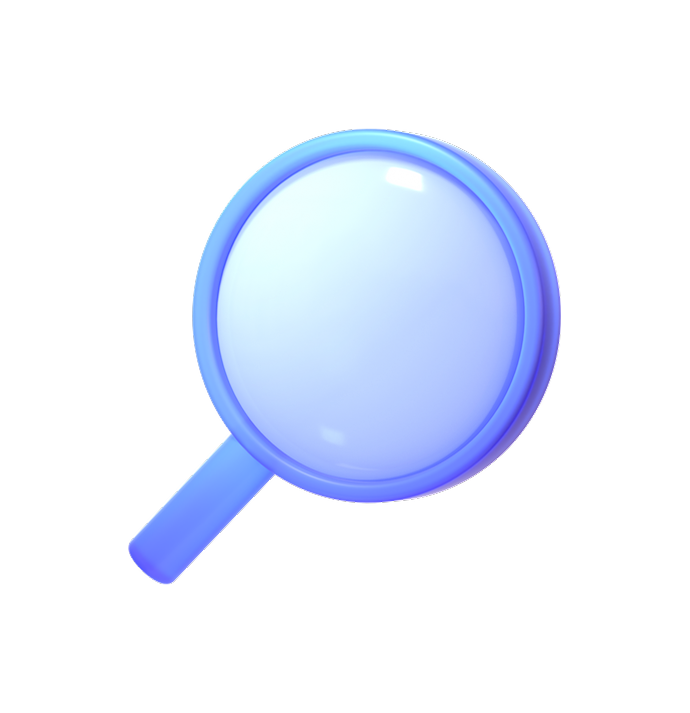
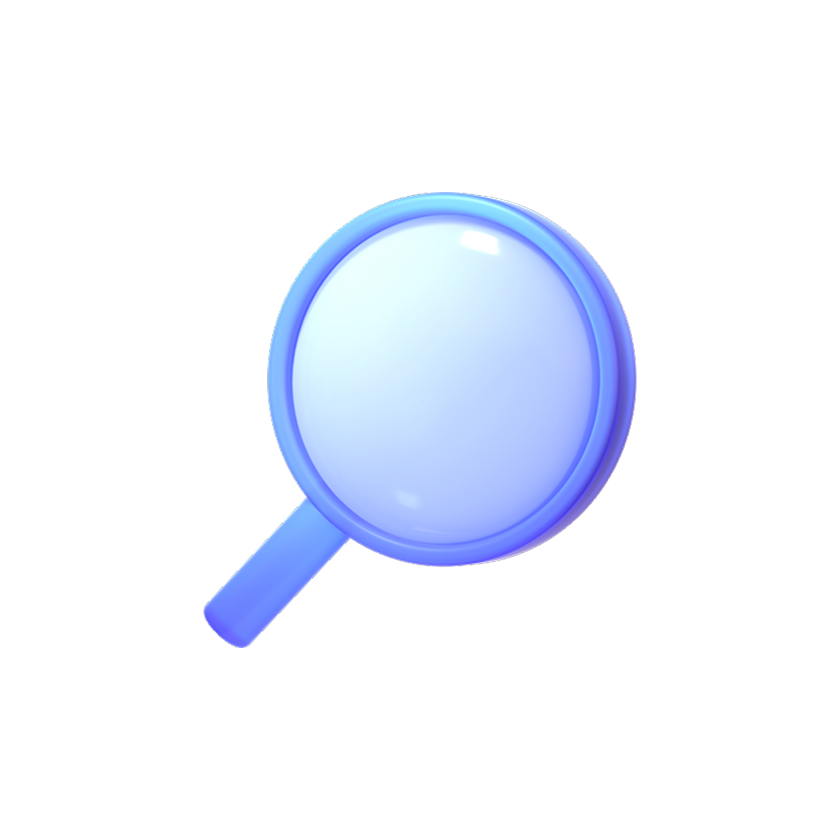
Cosmetic improvements

diff --git a/app/page.tsx b/app/page.tsx
@@ -33,8 +33,9 @@ export default function Home() {
   });
   const { listenResultMutation, isListeningResult } = useListenToResultMutation((url) => {
     setResultUrl(url)
+    form.resetFields();
   });
-  const { listenReadinessMutation } = useListenToReadinessMutation((model_id) => {
+  const { listenReadinessMutation, isListeningReadiness } = useListenToReadinessMutation((model_id) => {
     listenResultMutation(model_id)
   });
 
@@ -64,6 +65,7 @@ export default function Home() {
 
   const handleGenerate = (values: { prompt: string }) => {
     if (activeModel) {
+      setResultUrl(null); 
       generateModelMutation({ model_id: activeModel.id, prompt: values.prompt });
     }
   };
@@ -80,7 +82,7 @@ export default function Home() {
           className="
               w-full sm:max-w-lg bg-white rounded-none sm:rounded-4xl 
               shadow-none sm:shadow-xl sm:shadow-indigo-50 overflow-hidden
-              h-screen sm:h-auto py-10
+              h-screen sm:h-auto py-8
           "
         >
         <Space direction="vertical" size="large" style={{ width: '100%' }}>
@@ -105,52 +107,50 @@ export default function Home() {
             </div>     
           </div>
 
-          <div className="px-10 flex flex-col gap-4">
-            <Card 
-              title="Generation result" 
-              extra={<Button type='text' shape="circle" size="large" icon={<DownloadOutlined className='text-fuchsia-500' />} onClick={() => handleDownload(resultUrl)} disabled={resultUrl === null}/>}
-            >
-              <div ref={parent} className='flex max-w-[512px] justify-center'>
-                {isListeningResult ? (
-                  <GeneratingAnimation />
-                ) : (
-                  <Image 
-                    src={
-                      resultUrl 
-                        ? resultUrl 
-                        : activeModel && !activeModel.is_ready
-                        ? '/images/etc/silky-waves.png' 
-                        : '/images/etc/magnify.png'
-                    }
-                    alt={
-                      resultUrl 
-                        ? "Generation result" 
-                        : activeModel && !activeModel.is_ready 
-                        ? "Model is training" 
-                        : "No generations"
-                    }
-                    width={324}
-                    height={324}
-                    className="rounded-2xl select-none"
-                    fallback='' 
-                    preview={false} 
-                  />
-                )}
+          <div className="px-10 flex flex-col gap-8">
+            <div className='flex flex-col items-center'>
+              <div ref={parent} className='flex max-w-[512px] justify-center relative'>
+                  {!isListeningReadiness && isListeningResult && activeModel?.is_ready ? (
+                    <GeneratingAnimation />
+                  ) : (
+                    <Image 
+                      src={
+                        resultUrl 
+                          ? resultUrl 
+                          : activeModel && !activeModel.is_ready
+                          ? '/images/etc/silky-waves.png' 
+                          : '/images/etc/magnify.png'
+                      }
+                      alt={
+                        resultUrl 
+                          ? "Generation result" 
+                          : activeModel && !activeModel.is_ready 
+                          ? "Model is training" 
+                          : "No generations"
+                      }
+                      width={432}
+                      height={432}
+                      className="rounded-[24px] select-none aspect-square object-cover object-top max-w-full"
+                      fallback='' 
+                      preview={false} 
+                    />
+                  )}
+                  { resultUrl && <Button type='default' size="large" className='absolute! right-[16px] top-[16px] opacity-70 hover:opacity-100' icon={<DownloadOutlined/>} onClick={() => handleDownload(resultUrl)} disabled={resultUrl === null}/>}
               </div>
               <div className="flex w-full justify-center">
-                <Text className="align-middle w-fit text-[14px]!" type="secondary">
-                  {isListeningResult
-                    ? "Generating..."
-                    : resultUrl
-                    ? ""
-                    : activeModel && !activeModel.is_ready
-                    ? "Model is training, this may take some time"
-                    : "You haven’t generated any photos yet"}
-                </Text>
+                  <Text className="align-middle w-fit text-[14px]!" type="secondary">
+                    {isListeningResult
+                      ? "Generating..."
+                      : resultUrl
+                      ? ""
+                      : activeModel && !activeModel.is_ready
+                      ? "Model is training, this may take some time"
+                      : "You haven’t generated any photos yet"}
+                  </Text>
               </div>
-            </Card>
+            </div>
             <Form form={form} onFinish={handleGenerate} className="px-10 flex flex-col gap-4">
-              <Form.Item name="prompt" rules={[{ required: true, message: 'Enter a prompt' }]}>
+              <Form.Item className='mb-0!' name="prompt" rules={[{ required: true, message: 'Enter a prompt' }]}>
                 <Input.TextArea disabled={!!activeModel && !activeModel.is_ready || isListeningResult} placeholder="Imagine me as an astronaut in outer space" style={{ height: 80, resize: "none" }} />
               </Form.Item>
               {

diff --git a/app/theme.config.ts b/app/theme.config.ts
@@ -17,6 +17,11 @@ export const theme: ThemeConfig = {
       radioSize: 20,
       dotSize: 8
     },
+    Button: {
+      onlyIconSizeLG: 24,
+      borderRadiusLG: 16,
+      defaultBorderColor: ''
+    }
   }
 };
 
